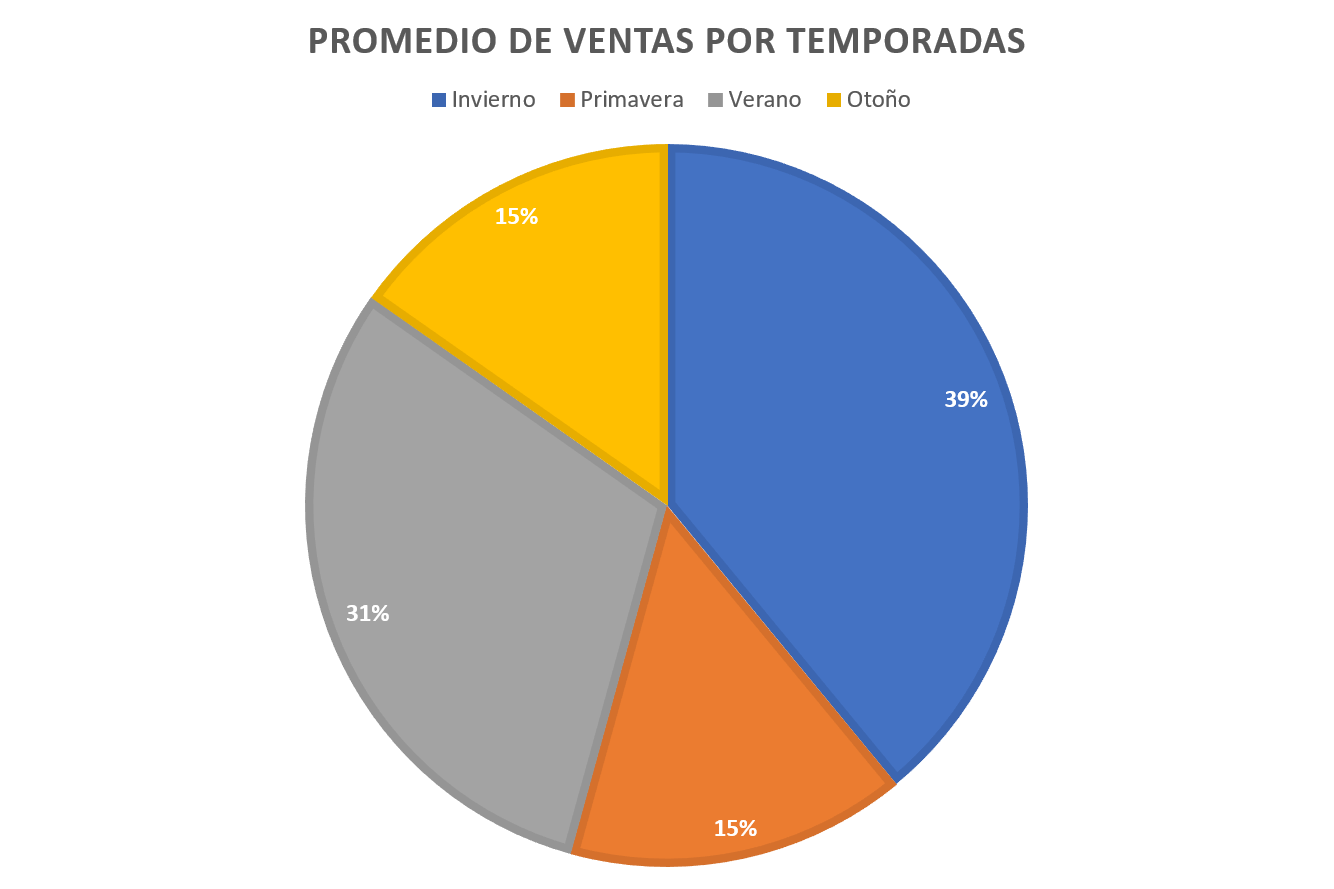
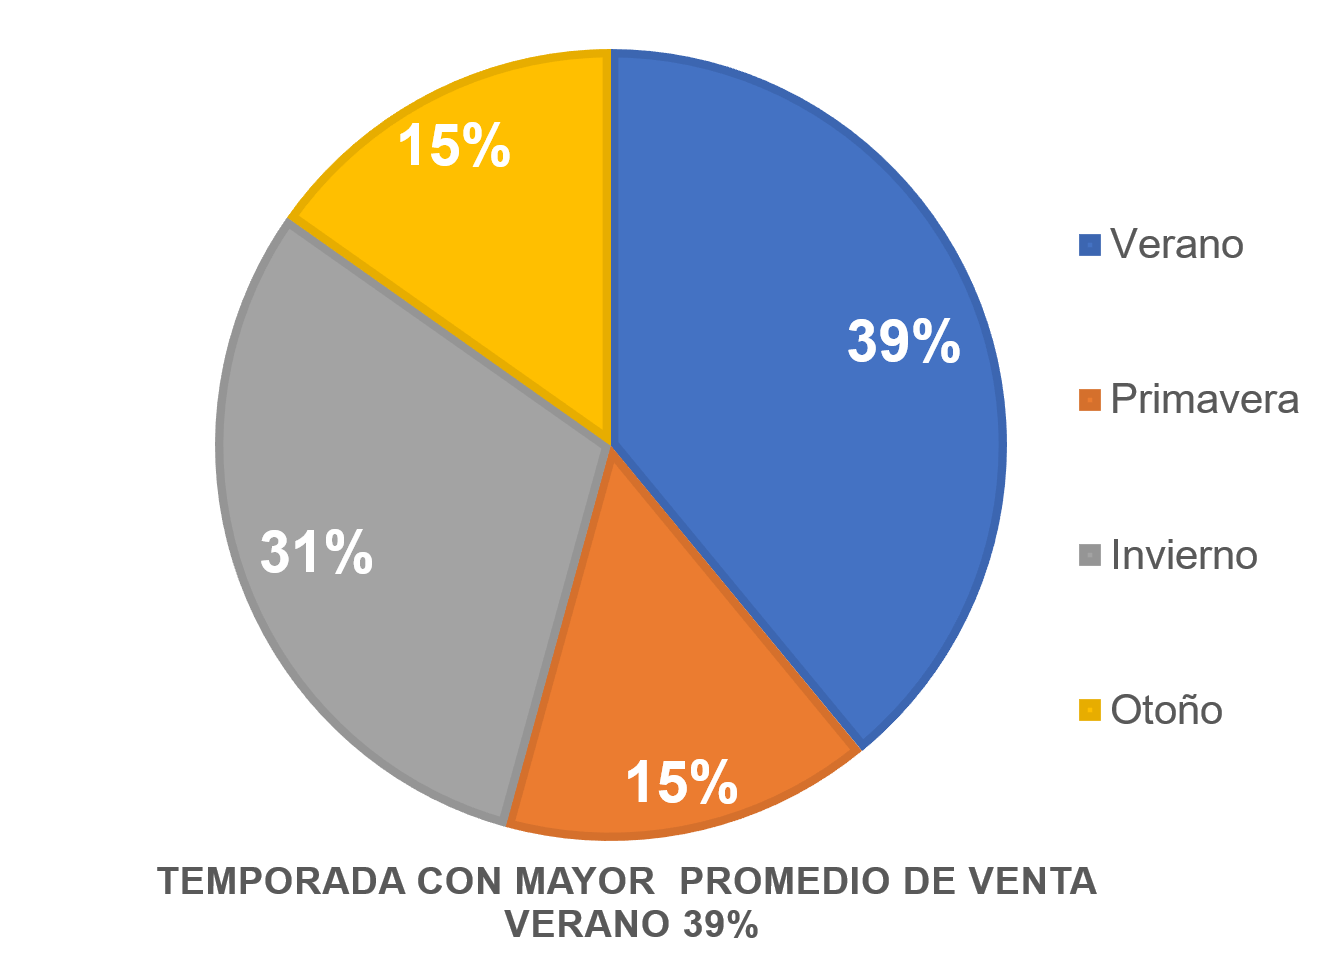
vista dashboard finalizada

diff --git a/src/assets/css/DashBoard.css b/src/assets/css/DashBoard.css
@@ -26,8 +26,8 @@ flex-direction: column;
     flex-direction: column;
     justify-content: flex-start;
     margin:10px;
-    width: 128%;
-    height: 105px;
+    width: 140%;
+    height: 280px;
 }
 
 #Container-S-Izquierdo {    
@@ -41,7 +41,20 @@ flex-direction: column;
 #Container-S-I-I{
     display: flex;
     flex-direction: row;
-    justify-content: space-between;
+    width: 98%;
+}
+
+#Container-S-I-I1{
+    margin: 10px;
+    width: 100%;
+    }
+
+#Container-S-I-I2{
+display: flex;
+flex-direction: row;
+margin-top: 10px;
+width: 100%;
+height: 348px;
 }
 
 #Container-Inferior{
@@ -56,21 +69,23 @@ flex-direction: column;
     display: flex;
     flex-direction: row;
     justify-content: space-between;
-
 }
 
 #Container-I-I-Izquierdo {
     display: flex;
     flex-direction: column;
     justify-content: space-between;
+    width: 22%;
+    height: 10px;
 }
 
 #Container-I-I-Derecho{
     display: flex;
     flex-direction: row;
     margin:5px;
+    margin-top: 10px;
     width: 100%;
-    height: 268px;
+    height: 500px;
 }
 
 #Container-I-Derecho {
@@ -78,5 +93,102 @@ flex-direction: column;
     flex-direction: row;
     margin:5px;
     width: 100%;
-    height: 268px;
+    height: 500px;
+}
+
+@media screen and (max-width:480px){
+    .mine-logo{
+        width: 50%;
+    }
+    
+    #contenedor-padre{
+    display:flex;
+    flex-direction: column;
+    }
+    
+    #Container-Superior{
+        display: flex;
+        flex-direction: column;
+        justify-content: space-around;
+        align-items: center;
+        margin: 15px;
+    }
+    
+    #Container-S-Derecho {
+        display: flex;
+        flex-direction: column;
+        justify-content: center;
+        margin:10px;
+        width: 100%;
+        height: 280px;
+    }
+    
+    #Container-S-Izquierdo {    
+        display: flex;
+        flex-direction: column;
+    }
+    
+    #Container-S-I-S{
+        margin:10px;
+    }
+    #Container-S-I-I{
+        display: flex;
+        flex-direction: column;
+        width: 98%;
+    }
+    
+    #Container-S-I-I1{
+        margin: 10px;
+        width: 100%;
+        }
+    
+    #Container-S-I-I2{
+    display: flex;
+    flex-direction: row;
+    margin-top: 10px;
+    width: 100%;
+    height: 235px;
+    }
+    
+    #Container-Inferior{
+        display: flex;
+        flex-direction: column;
+        justify-content: center;
+        align-items: center;
+        margin: 15px;
+    }
+    
+    #Container-I-Izquierdo{
+        display: flex;
+        flex-direction: column;
+        justify-content: space-between;
+    }
+    
+    #Container-I-I-Izquierdo {
+        display: flex;
+        flex-direction: row;
+        justify-content: space-between;
+        width: 100%;
+        height: 100px;
+        align-items: center;
+
+    }
+    
+    #Container-I-I-Derecho{
+        display: flex;
+        flex-direction: row;
+        align-items: center;
+        margin:5px;
+        margin-top: 10px;
+        width: 100%;
+        height: 350px;
+    }
+    
+    #Container-I-Derecho {
+        display: flex;
+        flex-direction: row;
+        margin:5px;
+        width: 100%;
+        height: 250px;
+    }
 }

diff --git a/src/components/DashBoard.js b/src/components/DashBoard.js
@@ -10,8 +10,8 @@ import image3 from "../assets/images/VentasMensual.png";
 import image4 from "../assets/images/Usuarios.png";
 import image5 from "../assets/images/BalanceAnual.png";
 import image6 from "../assets/images/Glaciar.jpg";
-import image7 from "../assets/images/Mendoza.jpg";
-
+import image7 from "../assets/images/Iguazu.jpg";
+import image8 from "../assets/images/Bariloche.jpg";
 
 function DashBoard() {
 
@@ -28,18 +28,18 @@ function DashBoard() {
 
             </div>
             <div id="Container-S-I-I">
-              <div>
-                <Card image={image2} encabezado="Hola" valor="10" />
-                </div>
-              <div>
-                <Card image={image3} encabezado="De nuevo" valor="11" />
-                </div>
+              <div id="Container-S-I-I1">
+                <Card image={image2} encabezado="Promedio de Ventas por Temporadas" valor="" />
+              </div>
+              <div id="Container-S-I-I2">
+                <Card image={image3} encabezado="Promedio de Ventas Mensual" valor="" />
+              </div>
             </div>
 
           </div>
 
           <div id="Container-S-Derecho">
-            <Card image={image1} encabezado="Hola" valor="12" />
+            <Card image={image1} encabezado="Destinos con mas ventas" valor="" />
           </div>
 
         </div>
@@ -49,21 +49,24 @@ function DashBoard() {
 
             <div id="Container-I-I-Izquierdo">
               <div>
-                <Card image={image6} encabezado="Hola" />
+                <Card image={image6} encabezado="Promoción Calafate" />
               </div>
               <div>
-                <Card image={image7} encabezado="Hola" />
+                <Card image={image7} encabezado="Promoción Iguazú" />
+              </div>
+              <div>
+                <Card image={image8} encabezado="Promoción Bariloche" />
               </div>
             </div>
 
             <div id="Container-I-I-Derecho">
-              <Card image={image4} encabezado="Hola" />
+              <Card image={image4} encabezado="Crecimiento de Usuarios por Pais" />
             </div>
 
           </div>
 
           <div id="Container-I-Derecho">
-            <Card image={image5} encabezado="Hola" />
+            <Card image={image5} encabezado="Balance de Ventas Anual" />
 
           </div>
 

diff --git a/src/assets/css/Card.css b/src/assets/css/Card.css
@@ -10,12 +10,14 @@
 .mine-graphic {
   box-sizing: border-box;
   position: relative;
-  left: 0px;
-  top: 0px;
+  border-radius: 10px;
+  margin-bottom: 15px;
   z-index: 1;
-  width: 30%;
+  width: 80%;
 }
 
 .mine-head {
   text-align: center;
+  margin-top:15px;
+  margin-bottom: 0px;
 }
